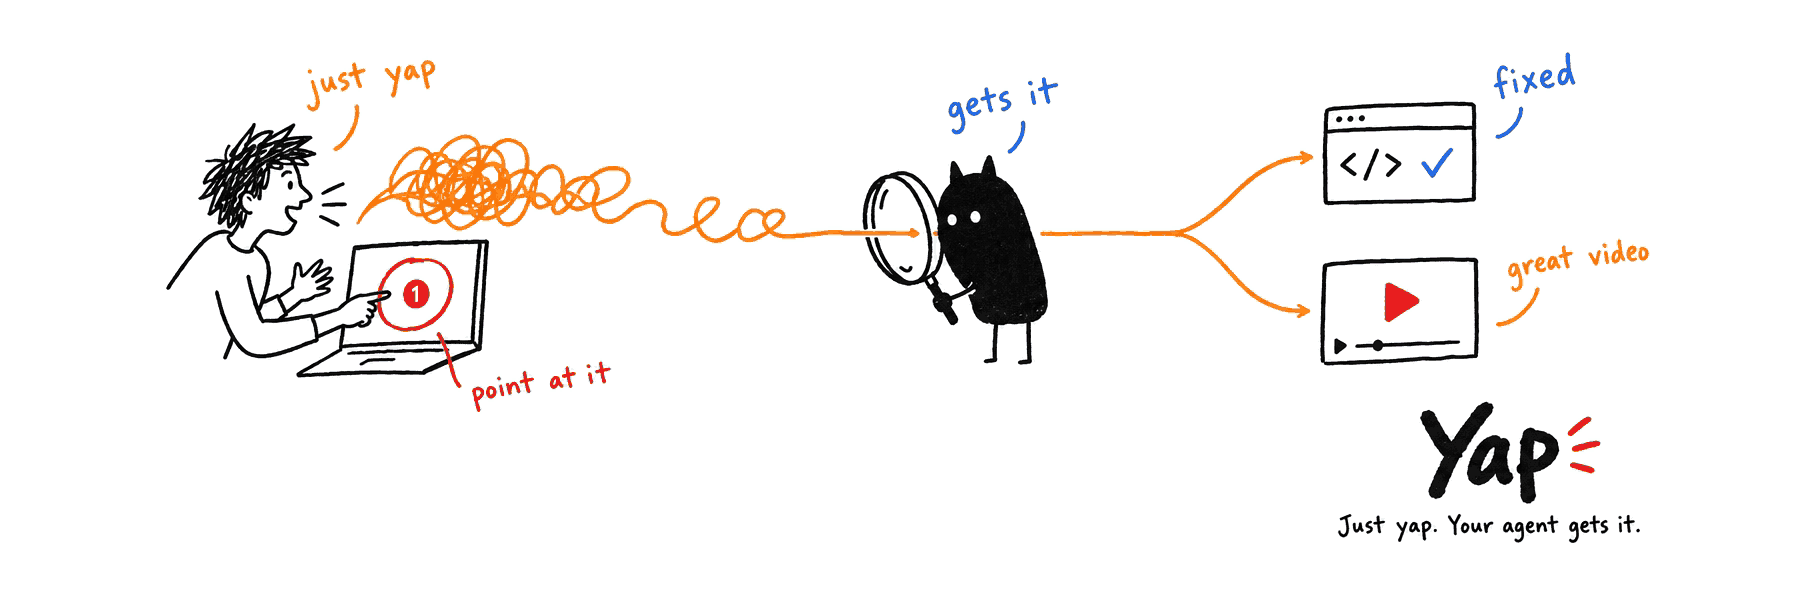
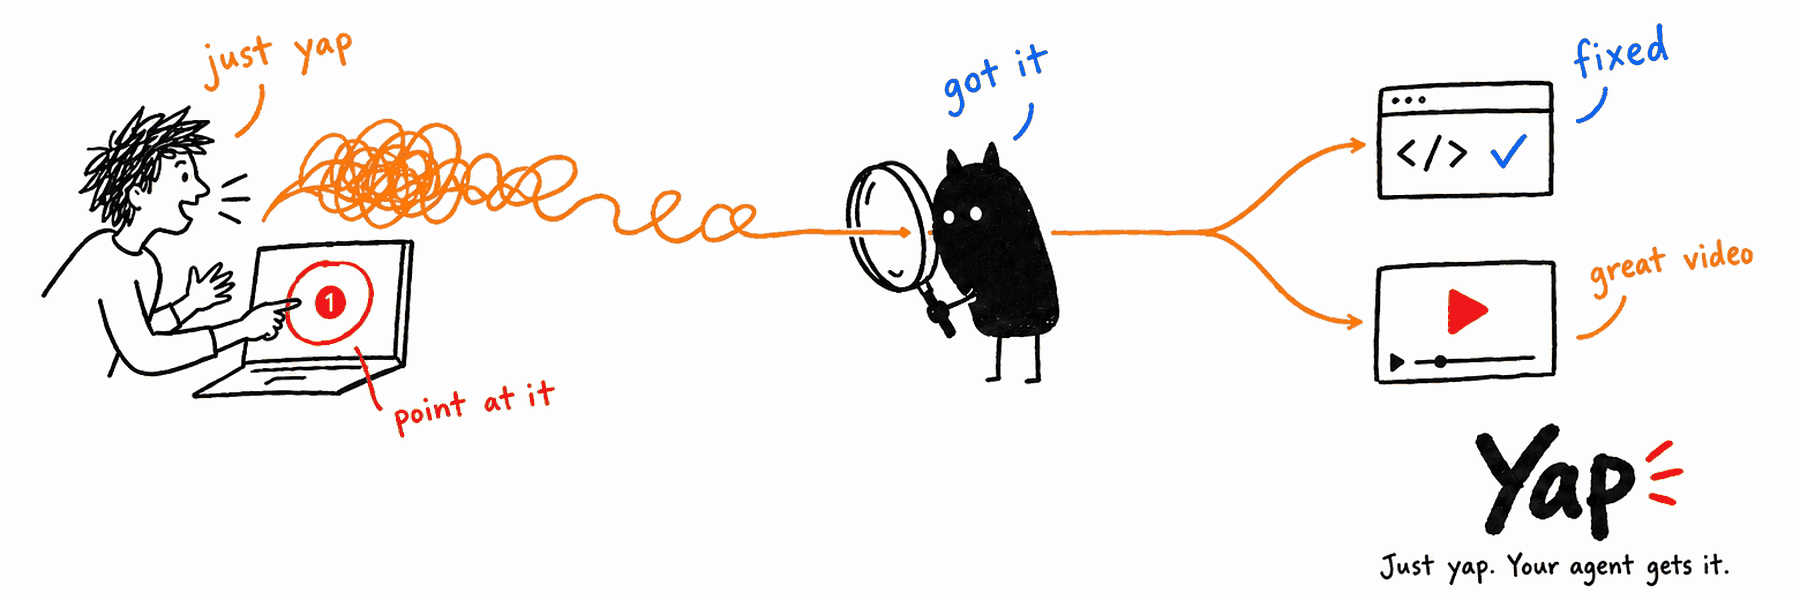
feat(site): the agent says "got it"; tighter header and social art

diff --git a/specs/show-your-agent/assets/art/README.md b/specs/show-your-agent/assets/art/README.md
@@ -1,10 +1,10 @@
 # Header and social preview art
 
-`01-gets-it-source.png` is the generated original (`duet model -m openai/gpt-image-2.5-flare
---size 1536x1024 --background opaque`, prompt in `01-gets-it-prompt.txt`, one of three variants;
+`01-got-it-source.png` is the generated original (`duet model -m openai/gpt-image-2.5-flare
+--size 1536x1024 --background opaque`, prompt in `01-got-it-prompt.txt`, one of three variants;
 chosen for its in-palette blue check and Xiaohei reading the talk through the lens). It shows
 the new line: a person just yaps and circles a pin on their laptop, Xiaohei gets it through a
-magnifying glass, and the straightened line ends in a fixed screen and a great video.
+magnifying glass ("got it"), and the straightened line ends in a fixed screen and a great video.
 
 `.github/readme/header.png` (1800×600) and `apps/site/og.png` (1200×630) are made from it: near
 white snapped to white, the drawing band and the wordmark block cut out and recomposed so the
@@ -14,3 +14,6 @@ wordmark sits under the outputs instead of floating far below, padded to each si
 The social card centres a much larger wordmark and tagline under the scene, so the brand and
 the line still read when a preview shrinks the card to a few hundred pixels (an unprimed
 critique found the corner wordmark unreadable at that size).
+
+The label over Xiaohei was then edited from "gets it" to "got it" (an image edit of the same
+source, everything else unchanged), and both crops were tightened to cut the empty space.
